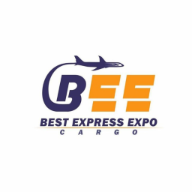
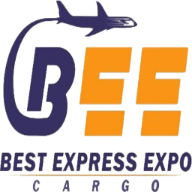
11 03 25

diff --git a/app/page.tsx b/app/page.tsx
@@ -187,7 +187,7 @@ export default function Home() {
         <div className="container flex h-20 items-center justify-between">
           <Link href="/" className="flex items-center">
             <Image
-              src="https://hebbkx1anhila5yf.public.blob.vercel-storage.com/photo_2023-10-26_22-27-52.jpg-TQJAha39KQNkKn2CkoGNFalDZUTZOy.jpeg"
+                src="https://hebbkx1anhila5yf.public.blob.vercel-storage.com/logo-2-ZA1nScJElK6tnTutqN7FHQblaXJmfE.png"
               alt="Best Express Expo Cargo"
               width={120}
               height={40}
@@ -241,8 +241,8 @@ export default function Home() {
           <div className="flex h-full flex-col justify-center space-y-4 pt-20">
             <h1 className="max-w-3xl text-4xl font-bold tracking-tighter text-white sm:text-5xl xl:text-6xl/none">
               {language === "ru"
-                ? "RZG new express - ваш надежный курьерский партнер"
-                : "RZG new express - sizning ishonchli kuryer hamkoringiz"}
+                ? "Best express expo - ваш надежный курьерский партнер"
+                : "Best express expo - sizning ishonchli kuryer hamkoringiz"}
             </h1>
             <p className="max-w-[600px] text-lg text-white/90 md:text-xl">
               {language === "ru"
@@ -407,7 +407,7 @@ export default function Home() {
                 />
               </Link>
               <p className="text-sm text-muted-foreground">
-                RZG new express -{" "}
+                Best express expo -{" "}
                 {language === "ru" ? "ваш надежный курьерский партнер" : "sizning ishonchli kuryer hamkoringiz"}
               </p>
             </div>

diff --git a/components/tracking-form.tsx b/components/tracking-form.tsx
@@ -101,10 +101,6 @@ export function TrackingForm() {
   return (
     <div className="w-full max-w-3xl mx-auto">
       <Card className="overflow-hidden border-none shadow-lg">
-        <CardHeader className="bg-gradient-to-r from-primary/90 to-primary text-white">
-          <CardTitle>Track Your Shipment</CardTitle>
-          <CardDescription className="text-white/80">Enter your tracking number below.</CardDescription>
-        </CardHeader>
         <CardContent className="p-6 space-y-6">
           <form onSubmit={handleSubmit} className="flex space-x-2">
             <Input
@@ -142,7 +138,7 @@ export function TrackingForm() {
               ) : (
                 <>
                   <Search className="h-4 w-4 mr-2" />
-                  Track
+                  Отследить
                 </>
               )}
             </Button>
